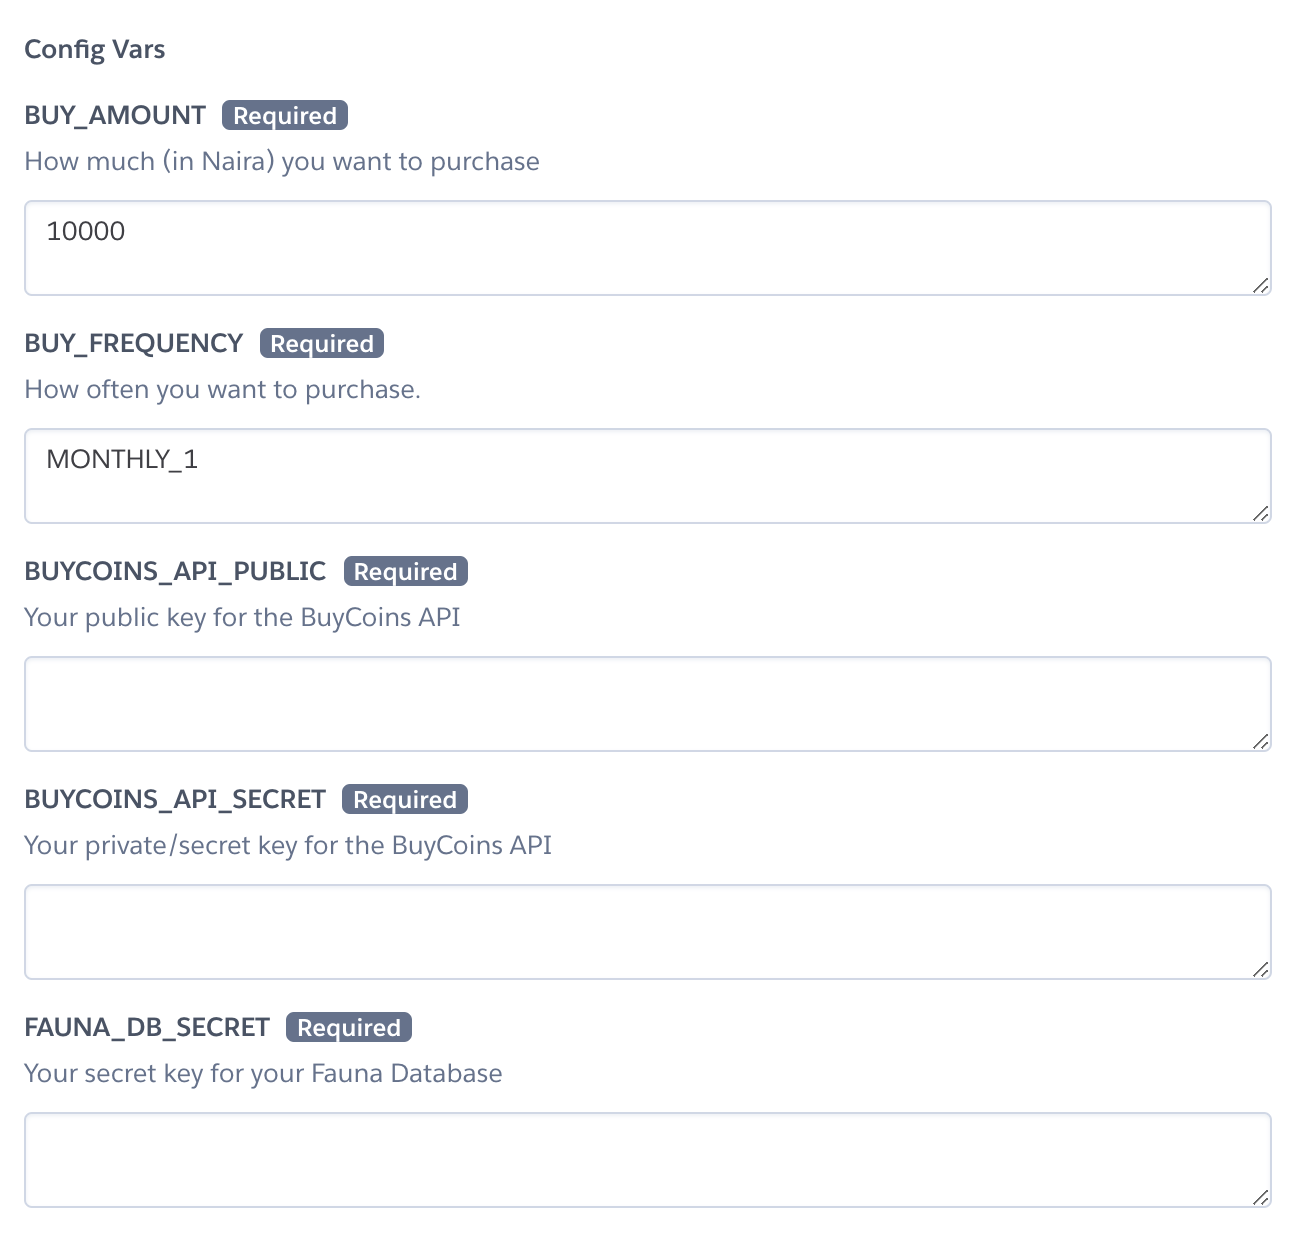
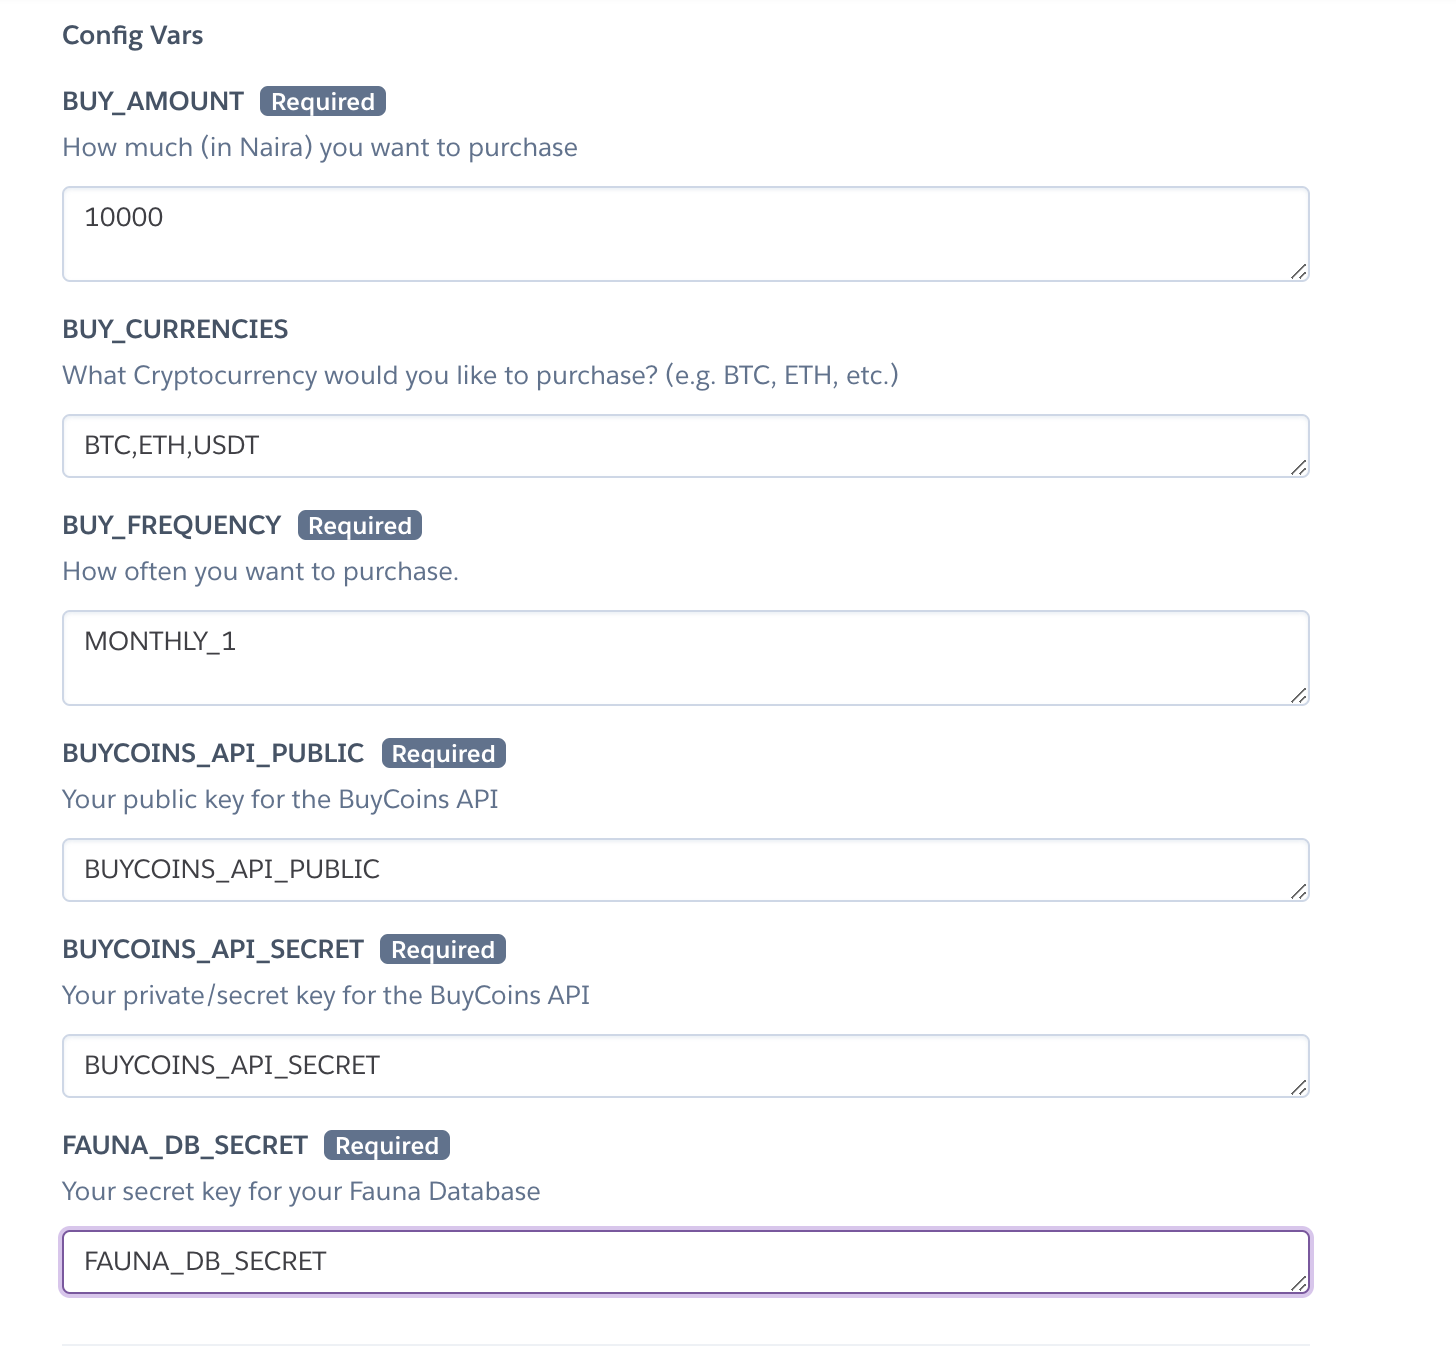
Update README (#3)
* Update README.md

* Update README.md

* Update README.md

* Update README.md

* Update app.json

* Delete env.png

* update env image

* update readme

* Delete env.png

* update env

* Add config image

* Update README.md

* Update README.md

* Update app.json

* Delete env.png

* update env

* Delete env.png

* Delete config.png

* updated env

* Update README.md

* Update app.json

* update env

* Update README.md

diff --git a/README.md b/README.md
@@ -2,7 +2,7 @@
 
 # BuyCoins Recurring Buy
 
-This is an open-source project which you can use to spread your investment in Bitcoin over a period of time. Make automated purchases of Bitcoin daily, weekly, or monthly!
+This is an open-source project that you can use to spread your investment in Cryptocurrencies over a period of time. Make automated purchases of any Cryptocurrency daily, weekly, or monthly!
 
 [Dollar cost averaging (DCA)](https://en.wikipedia.org/wiki/Dollar_cost_averaging) is an investment strategy that aims to reduce the impact of volatility on large purchases of financial assets such as equities. By dividing the total sum to be invested in the market (e.g., ₦100,000) into equal amounts put into the market at regular intervals (e.g., ₦1,000 per week over 100 weeks), DCA seeks to reduce the risk of incurring a substantial loss resulting from investing the entire lump sum just before a fall in the market.
 
@@ -17,7 +17,7 @@ This is an open-source project which you can use to spread your investment in Bi
 
 ### 1. Get access to the BuyCoins API
 
-You'll need access to the [BuyCoins API](http://developers.buycoins.africa/) in order to make automatic purchases. To apply for access, send an email to support@buycoins.africa with the email address attached to your BuyCoins and a link to this project.
+You'll need access to the [BuyCoins API](http://developers.buycoins.africa/) in order to make automatic purchases. To apply for access, send an email to support@buycoins.africa with the email address attached to your Buycoins account and a link to this project.
 
 Once you have access, go to your [API Settings](https://buycoins.africa/settings/api) page. Generate and copy your public and secret keys. These keys will be used as the `BUYCOINS_API_PUBLIC` and `BUYCOINS_API_SECRET` environment variables on Heroku.
 
@@ -33,7 +33,7 @@ Under your database security settings, create a new Key with the **admin** role 
 
 ### 3. Decide on your daily/weekly/monthly spend
 
-Next, you'll need to specify how often you want to buy Bitcoin, and how much you want to spend on each purchase. You do this by setting the following environment variables:
+Next, you'll need to specify how often you want to buy coins, how much you want to spend on each purchase, and the currencies you want to purchase. You do this by setting the following environment variables:
 
 1. `BUY_FREQUENCY`
     - `DAILY` - if you want to buy every day
@@ -41,7 +41,10 @@ Next, you'll need to specify how often you want to buy Bitcoin, and how much you
     - **MONTHLY_[1-29]** - if you want to buy once a month. e.g. `MONTHLY_5` to buy on the 5th day of each month
 2. `BUY_AMOUNT`
 The amount (in Naira) you want to purchase at each frequency.
+3. `BUY_CURRENCIES`
+The currencies you want to trade. e.g. `BTC` to buy BTC. You can also buy multiple currencies at a time. e.g. `BTC,ETH,USDT` to buy `BTC`, `ETH`, and `USDT`.
 
+To see all the cryptocurrency pairs supported by Buycoins, you can use the [getPairs](https://developers.buycoins.africa/orderbook-trading/glossary) method.
 
 ### 4. Deploy to Heroku and add environment variables
 
